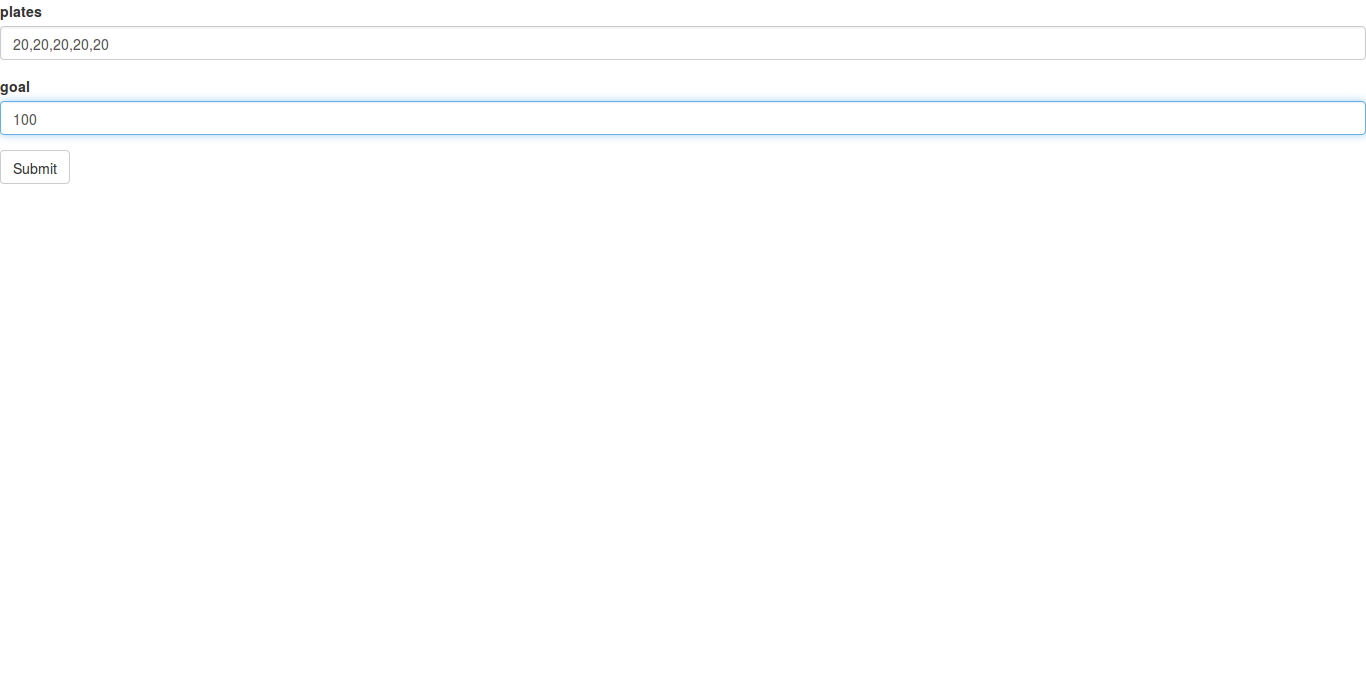
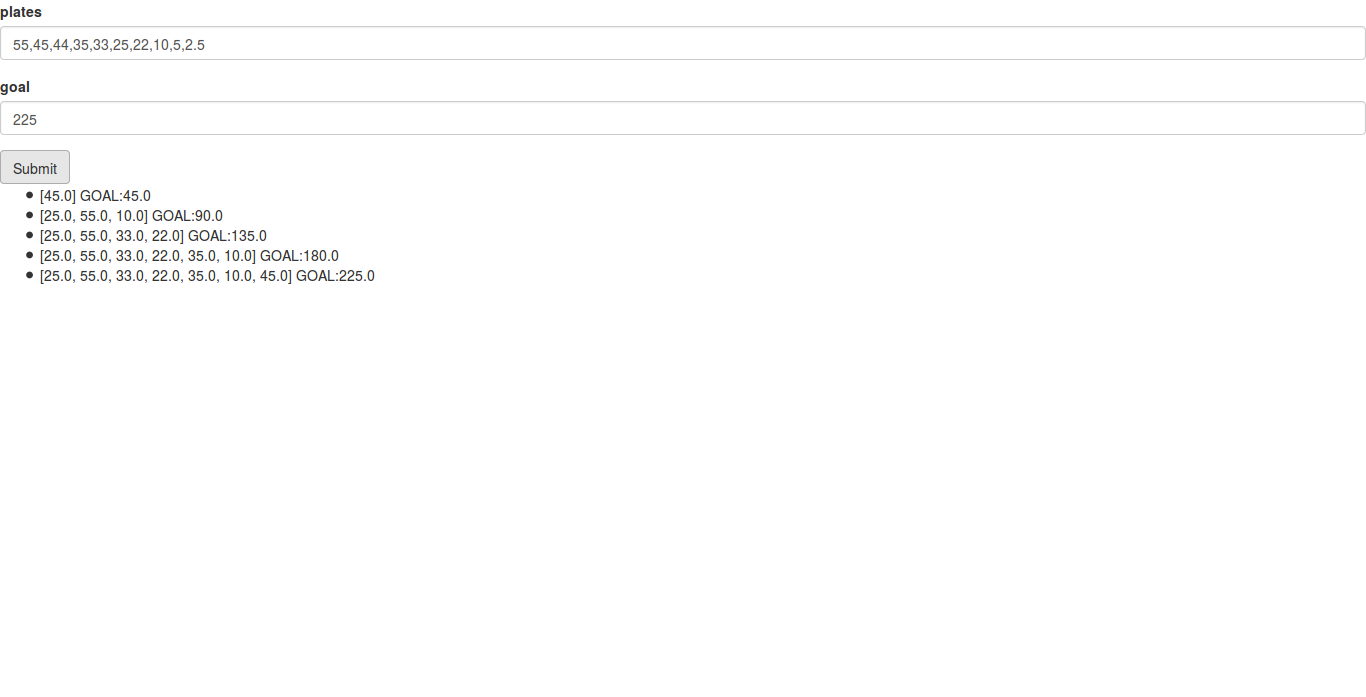
add bar

Changed region(s): [[0.0, 0.1205, 1.0, 0.4218], [0.0, 0.0603, 0.1537, 0.0904]]

diff --git a/app.py b/app.py
@@ -17,6 +17,7 @@ app.secret_key = os.environ.get("SECRET_KEY")
 class PlatesForm(Form):
     plates = StringField("plates", default="55,45,44,35,33,25,22,10,5,2.5", validators=[Required()])
     goal = StringField("goal", default="225", validators=[Required()])
+    bar = StringField("bar", default="45", validators=[Required()])
     submit = SubmitField('Submit')
 
 
@@ -26,7 +27,7 @@ def index():
     if request.method == "POST":
 
         warm_up = which_plates(
-            float(request.form['goal']),
+            (float(request.form['goal']- float(request.form['bar']))/2 ),
             Counter([float(p) for p in request.form['plates'].split(',')]),
             [.20, .40, .60, .80, 1]
         )

diff --git a/tests/test_live_website.py b/tests/test_live_website.py
@@ -11,8 +11,12 @@ def  test_warm_up_calculator(browser):
     assert title.html == "Warm Up Calculator"
 
     # submit data 
-    browser.fill_form({"plates": "55,45,44,35,33,25,22,10,5,2.5", "goal": "225"})
+    browser.fill_form({
+        "plates": "55,45,44,35,33,25,22,10,5,2.5", 
+        "goal": "225"
+    })
     browser.find_by_name("submit").first.click()
+    assert browser.find_by_id("bar")
 
     # inspect warm up set
     assert browser.find_by_id("list-group")
